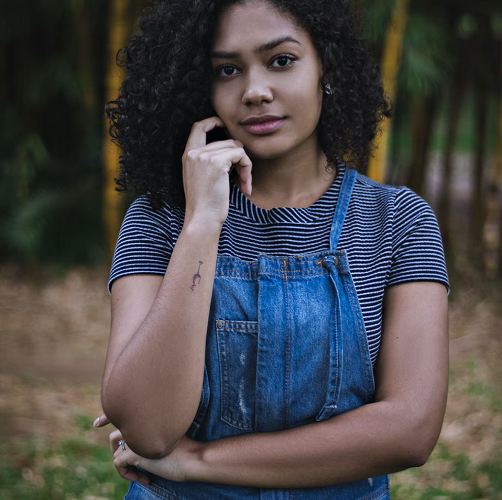
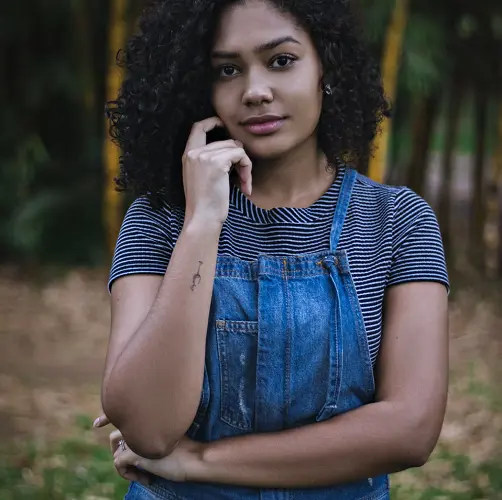
Fix pfp img size + Add min.js for bootstrap bundle

Changed region(s): [[0.4482, 0.36, 0.8665, 0.57], [0.239, 0.39, 0.3586, 0.54], [0.7171, 0.63, 0.747, 0.66]]

diff --git a/index.html b/index.html
@@ -187,7 +187,7 @@
 	</div>
 
 
-	<div id="contact">
+	<footer id="contact">
 		<div class="container">
 			<div class="form-container">
 				<h2>Une question ? Une demande de devis ?</h2>
@@ -206,9 +206,9 @@
 				<img src="./assets/images/camera-450.webp" alt="Photo of a camera">
 			</div>
 		</div>
-	</div>
+	</footer>
 
-	<script src="./assets/bootstrap/bootstrap.bundle.js"></script>
+	<script src="./assets/bootstrap/bootstrap.bundle.min.js"></script>
 	<script src="https://code.jquery.com/jquery-3.4.1.min.js" integrity="sha256-CSXorXvZcTkaix6Yvo6HppcZGetbYMGWSFlBw8HfCJo=" crossorigin="anonymous"></script>
 	<script src="./assets/maugallery.js"></script>
 	<script src="./assets/scripts.js"></script>
